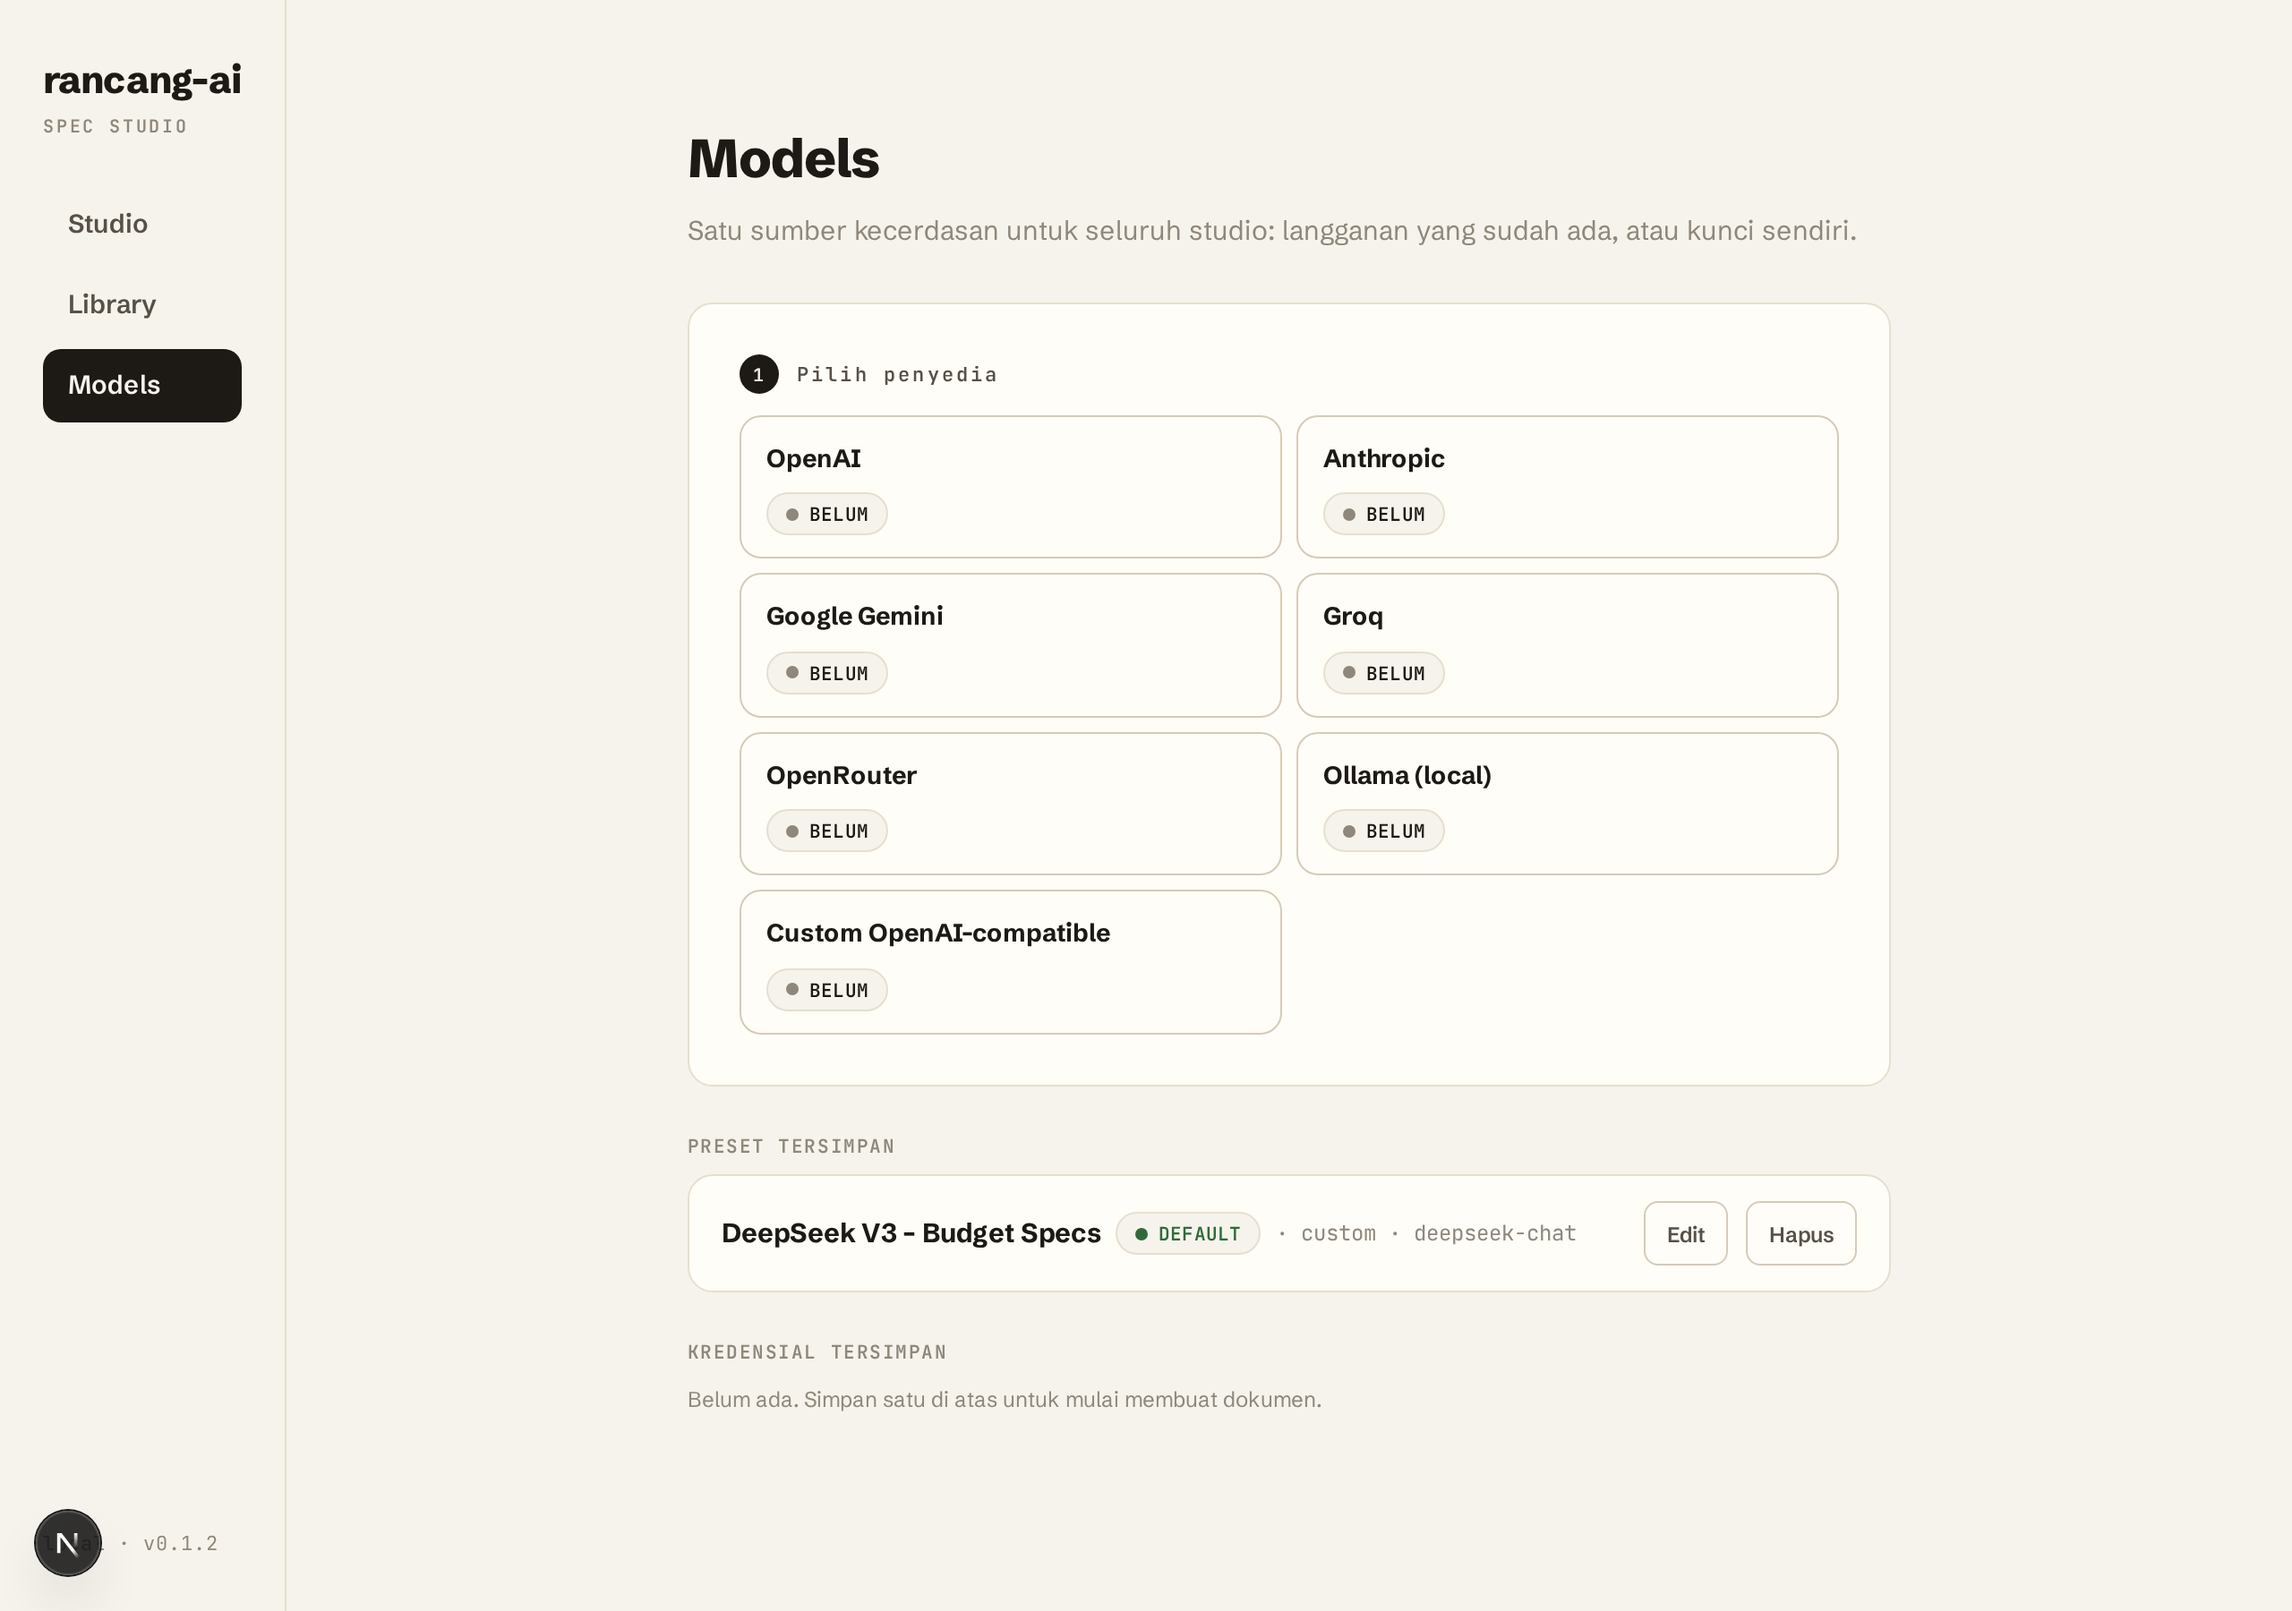
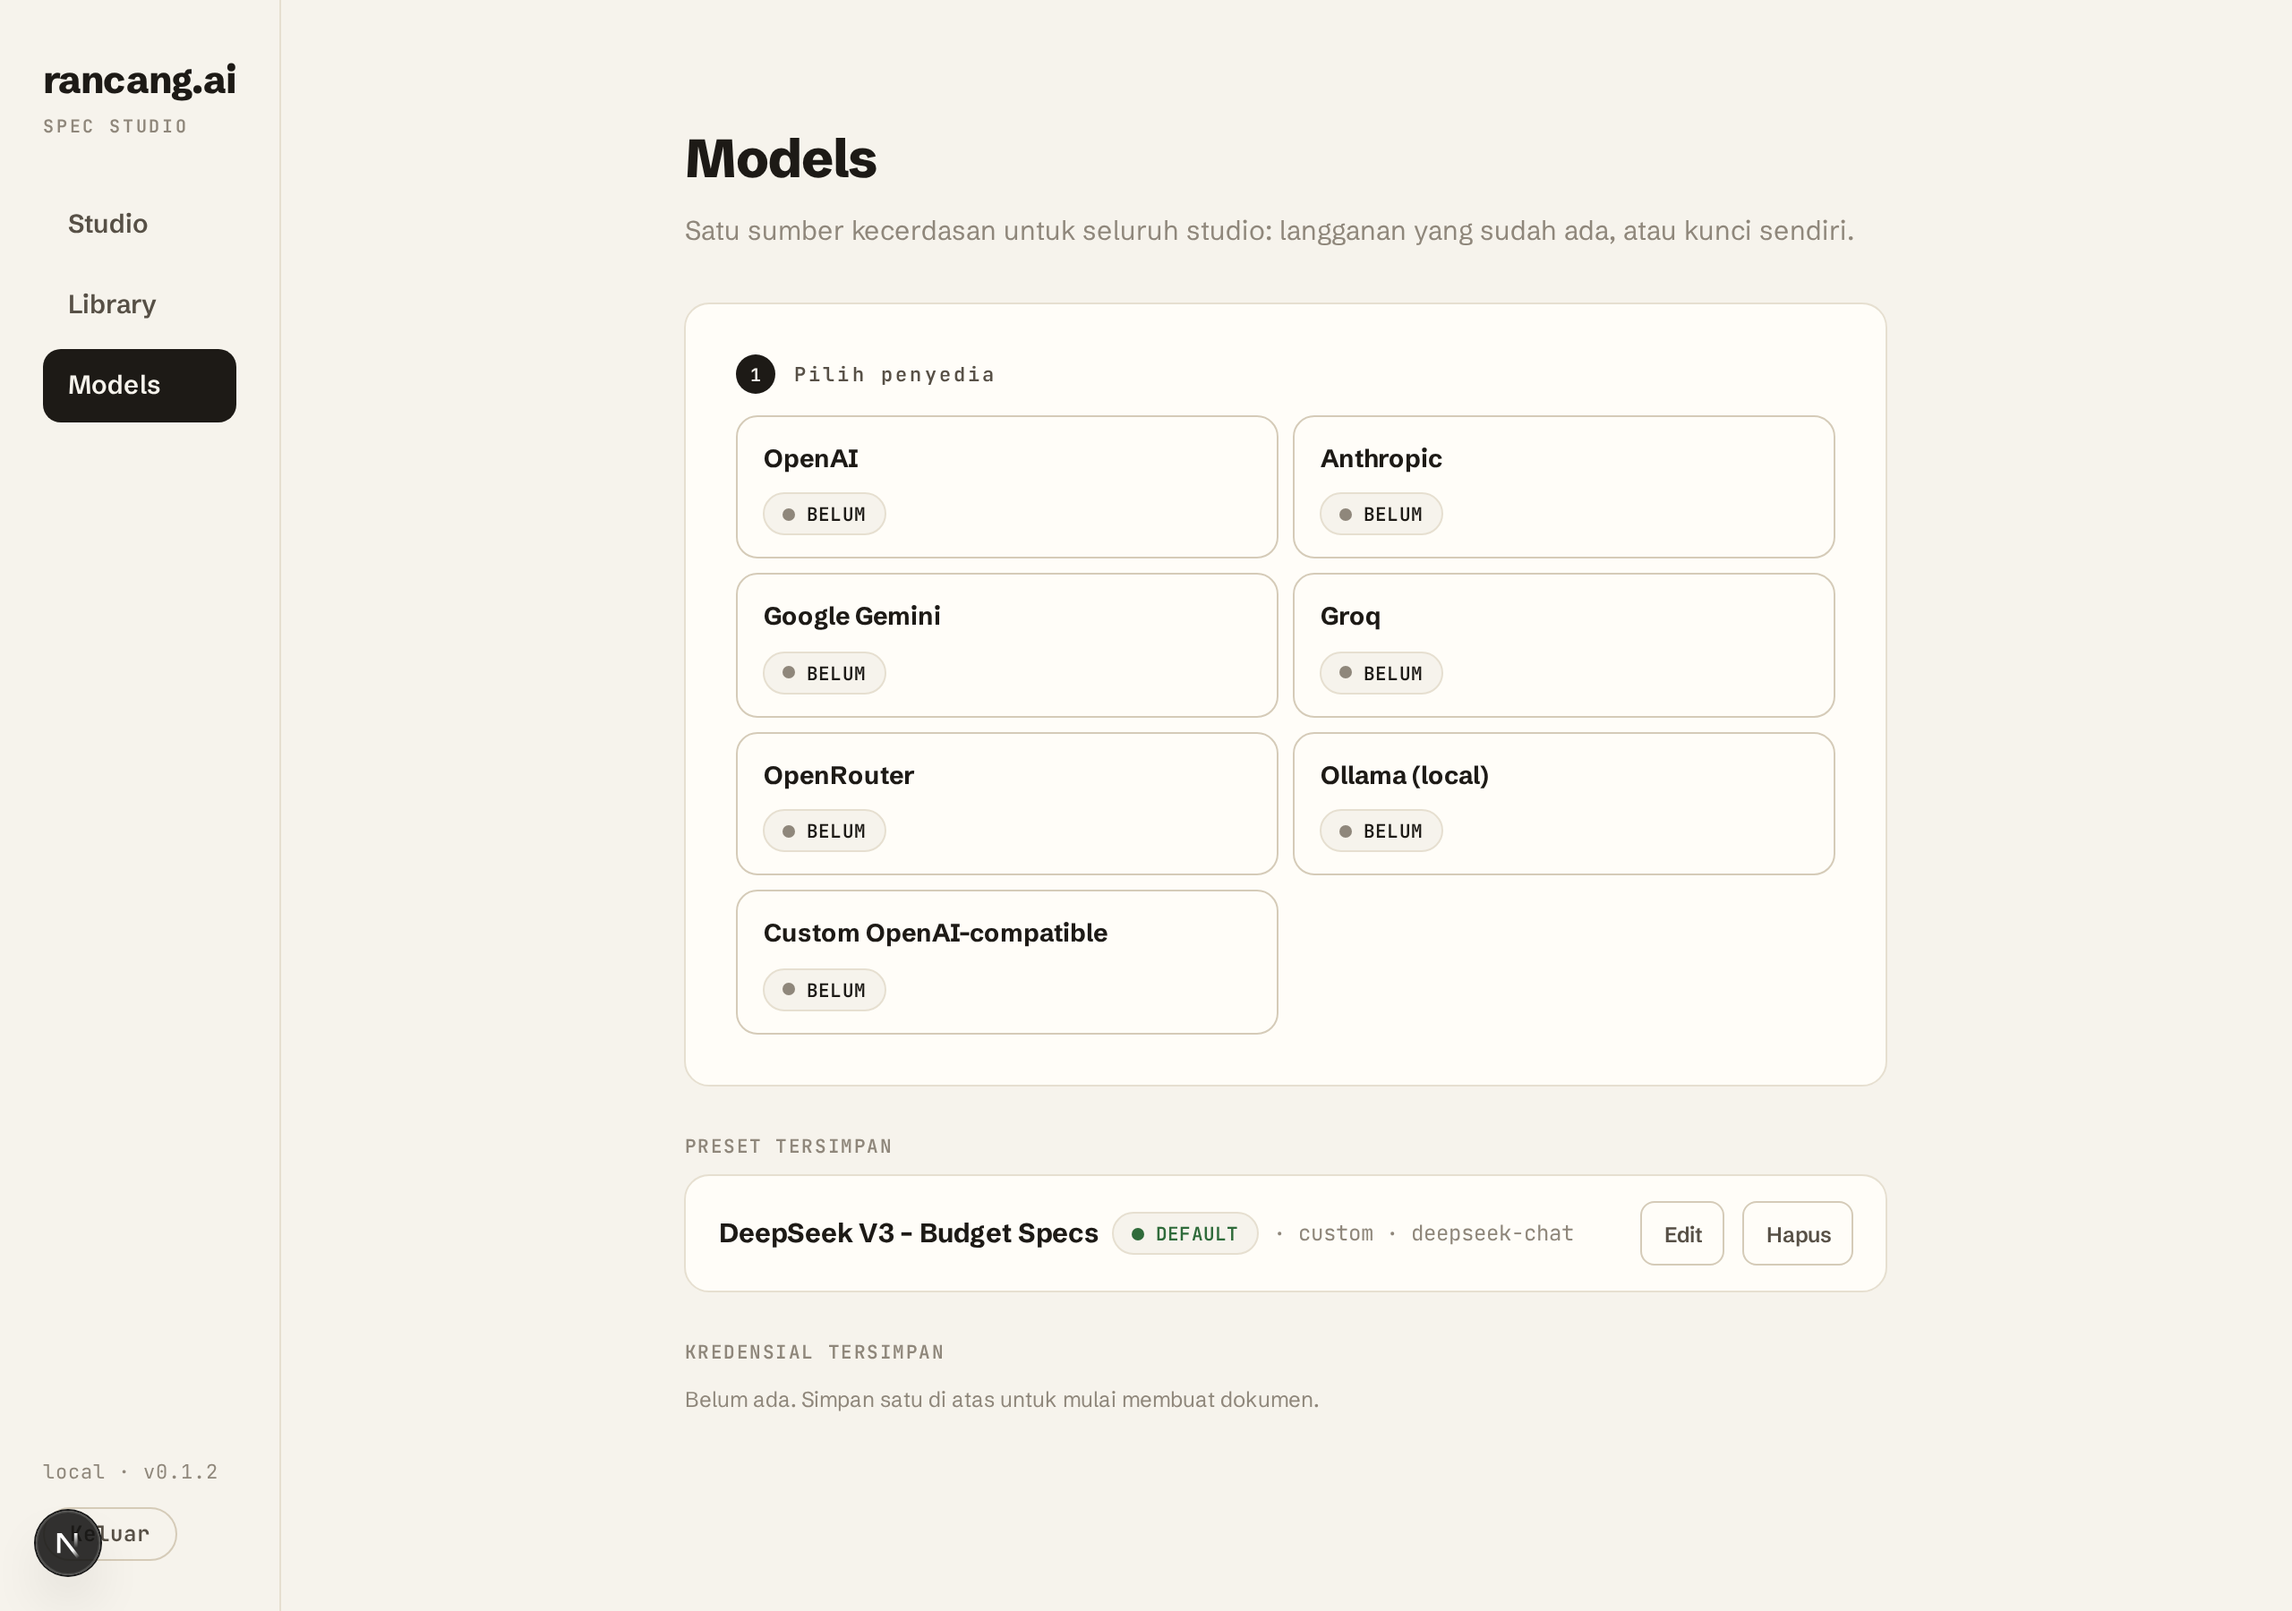
fix(review): sign-out in rail, real test-connection, member role on signup, 390 shots
- Rail: Keluar button posts /auth/logout and returns to /; .rail-foot CSS
- providers/test: with no key in the body, test the credential already saved
  for that provider (and its base URL), so subscription mode can succeed
- models page: test button enabled only when BYOK key is filled or a stored
  credential exists, with a note saying which
- createUser takes a role, defaulting to member; register no longer mints owners
- docs/shots: real 390/1280 captures for models and studio

diff --git a/src/app/api/v1/providers/test/route.ts b/src/app/api/v1/providers/test/route.ts
@@ -1,36 +1,56 @@
 import { z } from 'zod';
 import { withRoute, parseJson } from '@/lib/api/middleware';
 import { testProviderConnection } from '@/lib/llm/registry';
-import { resolveApiKey } from '@/lib/llm/credentials';
+import { getActiveCredentialForProvider, getCredentialRowForUser } from '@/lib/db/repositories/credentials';
+import { decryptKey } from '@/lib/crypto/keys';
 import { PROVIDER_CATALOG } from '@/lib/llm/catalog';
-import { PROVIDERS, type ProviderId } from '@/lib/db/enums';
 import { ValidationError } from '@/lib/errors';
 
 /**
  * POST /api/v1/providers/test — validate a key and list available models.
  * Accepts either a raw key (the settings form's "Test connection" button,
- * nothing is persisted) or credentialId (re-test a stored key).
+ * nothing is persisted) or, with no key at all, tests the credential already
+ * saved for that provider (subscription mode / re-testing a stored one).
  */
 const testSchema = z.object({
-  provider: z.enum(PROVIDERS as [ProviderId, ...ProviderId[]]),
+  provider: z.enum(['openai', 'anthropic', 'google', 'groq', 'openrouter', 'ollama', 'custom']),
   apiKey: z.string().min(1).max(400).optional(),
-  credentialId: z.string().optional(),
-  baseUrl: z.string().url().max(300).nullable().optional(),
+  credentialId: z.string().max(100).optional(),
+  baseUrl: z.string().max(500).optional(),
 });
 
 export const POST = withRoute(async (ctx) => {
+  const userId = ctx.session.user.id;
   const body = await parseJson<unknown>(ctx.req);
   const parsed = testSchema.safeParse(body);
   if (!parsed.success) throw new ValidationError('Invalid test payload', parsed.error.flatten());
   const input = parsed.data;
 
+  // No key in the body means "test with the credential already saved for this
+  // provider". That credential owns its base URL (Ollama, a custom
+  // OpenAI-compatible endpoint); testing without it would hit the provider
+  // default instead and fail for a reason the user cannot see.
   let apiKey = input.apiKey;
-  if (!apiKey && input.credentialId) {
-    apiKey = await resolveApiKey(ctx.session.user.id, input.provider, undefined);
+  let storedBaseUrl: string | null = null;
+  if (!apiKey) {
+    const row = input.credentialId
+      ? await getCredentialRowForUser(input.credentialId, userId)
+      : await getActiveCredentialForProvider(userId, input.provider);
+    if (!row || row.is_active !== 1) throw new ValidationError('Provide apiKey or credentialId');
+    apiKey = decryptKey({
+      encryptedKeyB64: row.encrypted_key_b64,
+      keyIvB64: row.key_iv_b64,
+      keyTagB64: row.key_tag_b64,
+    });
+    storedBaseUrl = row.base_url ?? null;
   }
   if (!apiKey) throw new ValidationError('Provide apiKey or credentialId');
 
-  const result = await testProviderConnection({ provider: input.provider, apiKey, baseUrl: input.baseUrl ?? null });
+  const result = await testProviderConnection({
+    provider: input.provider,
+    apiKey,
+    baseUrl: input.baseUrl ?? storedBaseUrl,
+  });
   return Response.json(result, { status: result.ok ? 200 : 422 });
 }, { bucket: 'provider_test' });
 

diff --git a/src/app/globals.css b/src/app/globals.css
@@ -173,11 +173,21 @@ input, textarea, select { font: inherit; color: inherit; }
 .pg-rail nav a:hover { background: var(--card); color: var(--ink); }
 .pg-rail nav a.on { background: var(--ink); color: var(--paper); }
 .pg-rail footer { margin-top: auto; font-size: 11px; }
+.pg-rail .rail-foot { display: flex; flex-direction: column; gap: 10px; align-items: flex-start; }
+.pg-rail .signout {
+  font: 600 12px var(--mono); letter-spacing: 0.04em; color: var(--ink-2);
+  background: transparent; border: 1.5px solid var(--line-2); border-radius: 99px;
+  padding: 6px 14px; cursor: pointer; transition: border-color 120ms, color 120ms;
+}
+.pg-rail .signout:hover { border-color: var(--ink); color: var(--ink); }
+.pg-rail .signout:disabled { opacity: 0.5; cursor: progress; }
 @media (max-width: 720px) {
   .shell { flex-direction: column; }
-  .pg-rail.rail { min-height: 0; border-right: none; border-bottom: 1.5px solid var(--line); flex-direction: row; align-items: center; padding: 14px 20px; gap: 18px; }
-  .pg-rail.rail nav { flex-direction: row; }
-  .pg-rail.rail footer { display: none; }
+  .pg-rail.rail { min-height: 0; border-right: none; border-bottom: 1.5px solid var(--line); flex-direction: row; align-items: center; padding: 14px 20px; gap: 12px 16px; flex-wrap: wrap; }
+  .pg-rail.rail nav { flex-direction: row; flex-wrap: wrap; order: 3; width: 100%; gap: 6px; }
+  .pg-rail.rail footer { margin-top: 0; margin-left: auto; }
+  .pg-rail .rail-foot { flex-direction: row; align-items: center; gap: 12px; }
+  .pg-rail .rail-foot > span { display: none; }
   .content { padding: 24px 20px; }
 }
 

diff --git a/src/components/Rail.tsx b/src/components/Rail.tsx
@@ -1,7 +1,9 @@
 'use client';
 
 import Link from 'next/link';
-import { usePathname } from 'next/navigation';
+import { usePathname, useRouter } from 'next/navigation';
+import { useState } from 'react';
+import { api } from '@/lib/client/api';
 
 const NAV = [
   { href: '/studio', label: 'Studio' },
@@ -12,10 +14,24 @@ const NAV = [
 /** App rail — friendly workbench nav. Studio is the home of the app. */
 export function Rail() {
   const pathname = usePathname();
+  const router = useRouter();
+  const [signingOut, setSigningOut] = useState(false);
+
+  async function signOut() {
+    setSigningOut(true);
+    try {
+      await api.post('/auth/logout');
+    } catch {
+      /* the cookie is cleared server-side either way; go home regardless */
+    }
+    router.push('/');
+    router.refresh();
+  }
+
   return (
     <aside className="pg-rail rail">
       <Link href="/studio" className="brand">
-        rancang-ai
+        rancang.ai
         <small>spec studio</small>
       </Link>
       <nav>
@@ -29,8 +45,11 @@ export function Rail() {
           </Link>
         ))}
       </nav>
-      <footer className="mono muted">
-        local · v0.1.2
+      <footer className="mono muted rail-foot">
+        <span>local · v0.1.2</span>
+        <button type="button" className="signout" onClick={() => void signOut()} disabled={signingOut}>
+          {signingOut ? 'keluar…' : 'Keluar'}
+        </button>
       </footer>
     </aside>
   );

diff --git a/src/app/(studio)/models/page.tsx b/src/app/(studio)/models/page.tsx
@@ -73,7 +73,9 @@ export default function ModelsPage() {
   useEffect(() => { void load(); }, [load]);
 
   const entry = providers.find((p) => p.id === provider);
-  const canTest = provider !== '' && (mode === 'subscription' || apiKey.trim().length > 0);
+  const savedCred = provider ? credentials.find((c) => c.provider === provider && c.isActive && c.isValid !== false) : undefined;
+  // BYOK needs a key in the field; subscription mode needs a credential already saved to test.
+  const canTest = provider !== '' && (mode === 'byok' ? apiKey.trim().length > 0 : Boolean(savedCred));
   const testPassed = test?.ok === true;
   const models = testPassed && test?.models ? test.models : [];
 
@@ -280,7 +282,9 @@ export default function ModelsPage() {
 
             {mode === 'subscription' && (
               <p className="muted small note">
-                Kunci disimpan terenkripsi (AES-256-GCM). Uji dulu — tombol simpan terbuka setelah lolos.
+                {savedCred
+                  ? 'Memakai kredensial yang sudah tersimpan untuk penyedia ini. Uji dulu — tombol simpan terbuka setelah lolos.'
+                  : 'Belum ada kredensial tersimpan untuk penyedia ini. Pilih BYOK untuk menguji dengan kunci API milikmu.'}
               </p>
             )}
           </section>

diff --git a/src/lib/db/repositories/users.ts b/src/lib/db/repositories/users.ts
@@ -12,13 +12,13 @@ export async function getUserByEmail(email: string): Promise<User | null> {
   return row ? mapUser(row) : null;
 }
 
-export async function createUser(input: { email: string; name?: string; authProvider?: 'local' | 'github' | 'google' | 'email' }): Promise<User> {
+export async function createUser(input: { email: string; name?: string; authProvider?: 'local' | 'github' | 'google' | 'email'; role?: 'owner' | 'member' }): Promise<User> {
   const id = newId('usr');
   const now = nowIso();
   await execute(
     `INSERT INTO users (id, email, name, role, auth_provider, created_at, updated_at)
-     VALUES (?, ?, ?, 'owner', ?, ?, ?)`,
-    [id, input.email, input.name ?? null, input.authProvider ?? 'local', now, now],
+     VALUES (?, ?, ?, ?, ?, ?, ?)`,
+    [id, input.email, input.name ?? null, input.role ?? 'member', input.authProvider ?? 'local', now, now],
   );
   const user = await getUserById(id);
   if (!user) throw new Error('user insert vanished');

diff --git a/src/app/api/v1/auth/register/route.ts b/src/app/api/v1/auth/register/route.ts
@@ -24,7 +24,12 @@ export const POST = withRoute(async (ctx) => {
   if (existing) throw new AppError('EMAIL_TAKEN', 'Email sudah terdaftar', 409);
 
   const passwordHash = await hashPassword(password);
-  const user = await createUser({ email: normalized, name: name ?? normalized.split('@')[0], authProvider: 'email' });
+  const user = await createUser({
+    email: normalized,
+    name: name ?? normalized.split('@')[0],
+    authProvider: 'email',
+    role: 'member',
+  });
   await setPasswordHash(user.id, passwordHash);
 
   const { token } = await createSession(user.id);
